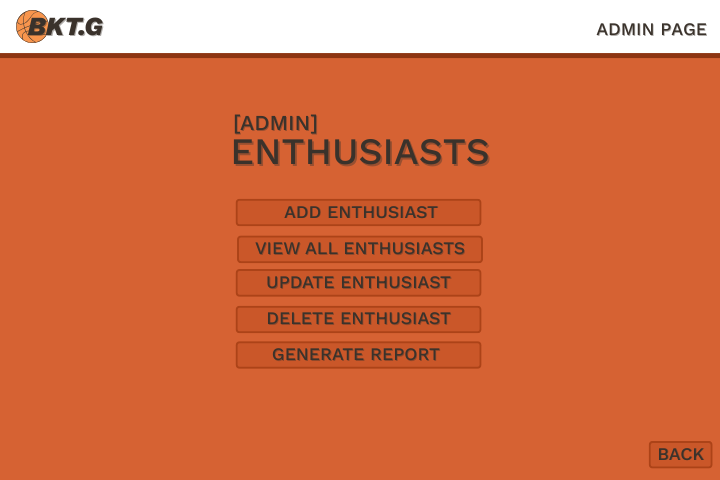
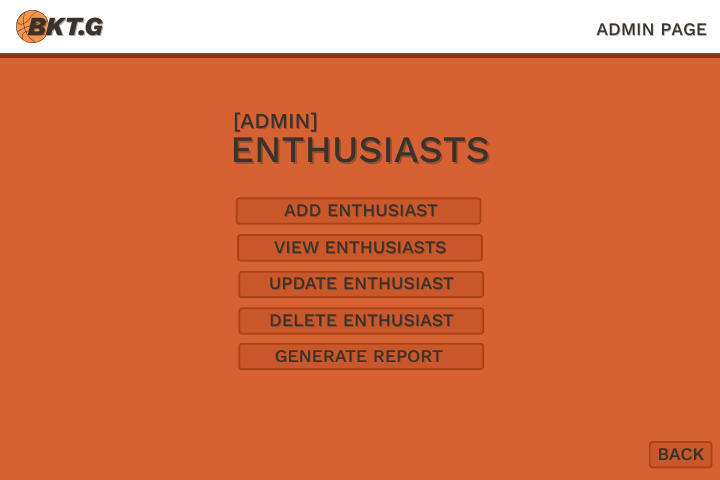
feat: update admin enthusiast panel

diff --git a/src/view/GUIAdminView.java b/src/view/GUIAdminView.java
@@ -10,6 +10,7 @@ import java.time.DateTimeException;
 import java.time.format.DateTimeFormatter;
 import java.time.format.DateTimeParseException;
 import javax.swing.*;
+import javax.swing.border.Border;
 import java.awt.*;
 import java.awt.event.*;
 
@@ -83,15 +84,17 @@ public class GUIAdminView {
 		cp = BackgroundPanel.create("assets/admin/enthusiast/create.png");
 		cp.setLayout(null);
 		frame.setContentPane(cp);
-		JTextField usernameField = GUIUtil.createTextField(119,198,261,27);
-		JTextField lastNameField = GUIUtil.createTextField(119,254,261,27);
-		JTextField firstNameField = GUIUtil.createTextField(119,308,261,27);
-		JTextField middleNameField = GUIUtil.createTextField(119,364,261,27);
-		JTextField yearField = GUIUtil.createTextField(445,198,139,27);
-		JTextField monthField = GUIUtil.createTextField(445,253,139,27);
-		JTextField dayField = GUIUtil.createTextField(445,309,139,27);
-		JTextField sexField = GUIUtil.createTextField(445,364,139,27);
-		JButton submitBtn = GUIUtil.createIButton(110,410,486,27);
+		JTextField usernameField = GUIUtil.createTextField(121,194,268,27);
+		JTextField lastNameField = GUIUtil.createTextField(121,249,268,27);
+		JTextField firstNameField = GUIUtil.createTextField(121,304,268,27);
+		JTextField middleNameField = GUIUtil.createTextField(121,359,268,27);
+		JTextField yearField = GUIUtil.createTextField(447,194,151,27);
+		JTextField monthField = GUIUtil.createTextField(447,248,151,27);
+		JTextField dayField = GUIUtil.createTextField(447,305,151,27);
+		JButton sexF = GUIUtil.createIButton(439,359,40,27);
+		JButton sexM = GUIUtil.createIButton(485,359,40,27);
+		JButton sexOther = GUIUtil.createIButton(530,359,71,27);
+		JButton submitBtn = GUIUtil.createIButton(575,440,60,27);
 		JButton backBtn = GUIUtil.createIButton(648,440,64,27);
 		cp.add(usernameField);
 		cp.add(lastNameField);
@@ -100,25 +103,53 @@ public class GUIAdminView {
 		cp.add(yearField);
 		cp.add(monthField);
 		cp.add(dayField);
-		cp.add(sexField);
+		cp.add(sexF);
+		cp.add(sexM);
+		cp.add(sexOther);
 		cp.add(submitBtn);
 		cp.add(backBtn);
 
+		final String[] sex = { "none" };
+		Border blackBorder = BorderFactory.createLineBorder(new Color(141,53,18), 2);
+		Border noBorder = BorderFactory.createLineBorder(Color.BLACK, 0);
+
+		sexF.addActionListener(e -> {
+			sex[0] = "Female";
+			sexF.setBorder(blackBorder);
+			sexM.setBorder(noBorder);
+			sexOther.setBorder(noBorder);
+		});
+		sexM.addActionListener(e -> {
+			sex[0] = "Male";
+			sexM.setBorder(blackBorder);
+			sexF.setBorder(noBorder);
+			sexOther.setBorder(noBorder);
+		});
+		sexOther.addActionListener(e -> {
+			sex[0] = "Other";
+			sexOther.setBorder(blackBorder);
+			sexF.setBorder(noBorder);
+			sexM.setBorder(noBorder);
+		});
 		submitBtn.addActionListener(e -> {
 			try {
 				String username = usernameField.getText().trim();
 				String lastName = lastNameField.getText().trim();
 				String firstName = firstNameField.getText().trim();
 				String middleName = middleNameField.getText().trim();
-				String sex = sexField.getText().trim();
 
+				//err handling
 				if(username.isEmpty() || lastName.isEmpty() || 
-					firstName.isEmpty() || sex.isEmpty()) {
+					firstName.isEmpty()) {
 					JOptionPane.showMessageDialog(frame, 
 						"Required Fields! Fill in all the required fields (middle name is optional).");
    				return; // stop further processing
 				}
-
+				if(sex[0].equals("none")) {
+					JOptionPane.showMessageDialog(frame, 
+						"Required Fields! No sex chosen.");
+   				return; // stop further processing
+				}
 				int year = Integer.parseInt(yearField.getText().trim());
       		int month = Integer.parseInt(monthField.getText().trim());
    			int day = Integer.parseInt(dayField.getText().trim());
@@ -129,7 +160,7 @@ public class GUIAdminView {
 				Enthusiast enthusiast = new Enthusiast(
 					username, 
 					lastName, firstName, middleName, 
-					sex, 
+					sex[0], 
 					new CustomTimestamp(year, month, day)
 				);
 
@@ -146,7 +177,9 @@ public class GUIAdminView {
 				yearField.setText("");
 				monthField.setText("");
 				dayField.setText("");
-				sexField.setText("");
+				sexOther.setBorder(noBorder);
+				sexF.setBorder(noBorder);
+				sexM.setBorder(noBorder);
 			} catch (NumberFormatException nfe) {
 				JOptionPane.showMessageDialog(frame,
 					"Invalid Date. Please enter numerical values.");

diff --git a/src/view/GUIUtil.java b/src/view/GUIUtil.java
@@ -99,7 +99,7 @@ public class GUIUtil {
 
 		button.setOpaque(false);
 		button.setContentAreaFilled(false);
-		button.setBorderPainted(false);
+		button.setBorderPainted(true);
 		button.setFocusPainted(false);
 
 		//debugging
